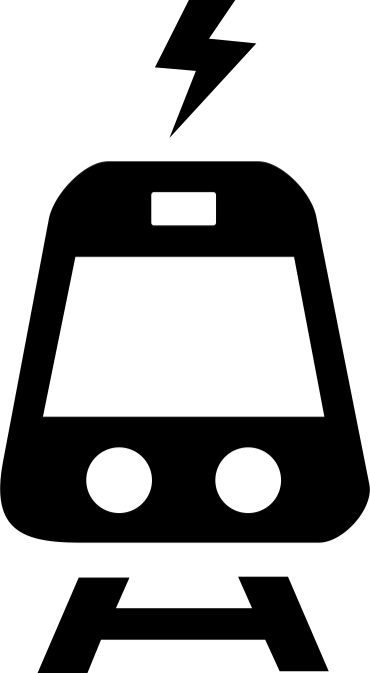
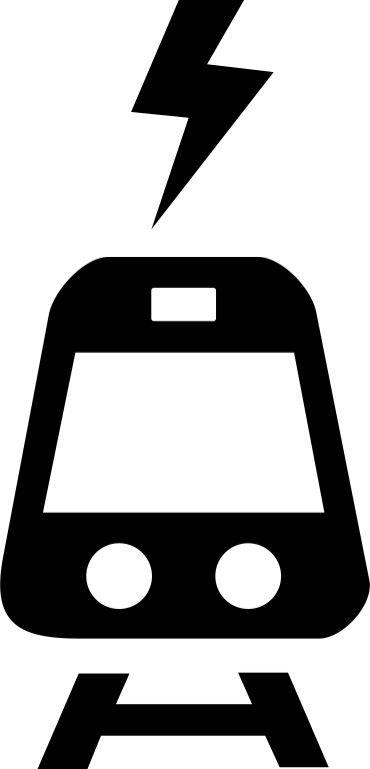
* separate vans from cars * small tweaks

diff --git a/app/main.py b/app/main.py
@@ -57,8 +57,8 @@ y = np.arange(0, 1000, 1)
 X, Y = np.meshgrid(x, y)
 Z = X*Y
 
-intensities = {'car electric':0.15,'car hydrogen':0.36,'bus electric':0.14,'rail electric':0.08,'rail hydrogen':0.192,'air synthetic':0.9,'air hydrogen':1.4,'bicycle':0.0,'walk':0.0,'HGV electric':0.361,'HGV hydrogen':0.889,'rail freight electric':0.09}
-demands = {'car electric':673,'car hydrogen':0,'bus electric':29,'rail electric':81,'rail hydrogen':0,'walk':12,'bicycle':6,'air synthetic':0,'HGV electric':161,'HGV hydrogen':0,'rail freight electric':17}
+intensities = {'car electric':0.15,'car hydrogen':0.36,'van electric':0.267,'bus electric':0.14,'rail electric':0.08,'rail hydrogen':0.192,'air synthetic':0.9,'air hydrogen':1.4,'bicycle':0.0,'walk':0.0,'HGV electric':0.361,'HGV hydrogen':0.889,'rail freight electric':0.09}
+demands = {'car electric':539,'car hydrogen':0,'van electric':134,'bus electric':29,'rail electric':81,'rail hydrogen':0,'walk':12,'bicycle':6,'air synthetic':0,'HGV electric':161,'HGV hydrogen':0,'rail freight electric':17}
 # N = 400
 # x = np.linspace(-1, 1, N)
 # y = np.linspace(-1, 1, N)
@@ -110,6 +110,10 @@ hgvH2_dict = {'intensity':[intensities['HGV hydrogen']],'demand':[demands['HGV h
 hgvH2_source = ColumnDataSource(data=hgvH2_dict)
 hgvH2_source.data['url']=['app/static/delivery-van-hydrogen.png']
 
+van_dict = {'intensity':[intensities['van electric']],'demand':[demands['van electric']]}
+van_source = ColumnDataSource(data=van_dict)
+van_source.data['url']=['app/static/van_electric.png']
+
 # contour plot
 contour_source = get_contour_data(X,Y,Z,levels)
 plot = figure(plot_width=729,plot_height=450,x_range=[-0.04,1], y_range=[-20,700],
@@ -125,18 +129,19 @@ plot.text(x='xt',y='yt',text='text',source=contour_source,text_baseline='middle'
 #plot.circle(intensities['walk'], demands['walk'], line_color="yellow", size=12)
 #plot.circle(intensities['bicycle'], demands['bicycle'], line_color="yellow", size=12)
 #plot.circle(intensities['air synthetic'], demands['air synthetic'], line_color="yellow", size=12)
-plot.image_url(url='url',x='intensity',y='demand',h=30,w=0.07,anchor='center',source=car_source)
-plot.image_url(url='url',x='intensity',y='demand',h=30,w=0.07,anchor='center',source=carH2_source)
+plot.image_url(url='url',x='intensity',y='demand',h=40,w=0.07,anchor='center',source=car_source)
+plot.image_url(url='url',x='intensity',y='demand',h=40,w=0.07,anchor='center',source=carH2_source)
 
 plot.image_url(url='url',x='intensity',y='demand',h=40,w=0.07,anchor='center',source=bike_source)
 plot.image_url(url='url',x='intensity',y='demand',h=40,w=0.07,anchor='center',source=walk_source)
 plot.image_url(url='url',x='intensity',y='demand',h=50,w=0.07,anchor='center',source=plane_source)
-plot.image_url(url='url',x='intensity',y='demand',h=70,w=0.05,anchor='center',source=train_source)
+plot.image_url(url='url',x='intensity',y='demand',h=80,w=0.05,anchor='center',source=train_source)
 plot.image_url(url='url',x='intensity',y='demand',h=70,w=0.05,anchor='center',source=trainH2_source)
 plot.image_url(url='url',x='intensity',y='demand',h=60,w=0.05,anchor='center',source=hgvE_source)
 plot.image_url(url='url',x='intensity',y='demand',h=60,w=0.05,anchor='center',source=hgvH2_source)
 plot.image_url(url='url',x='intensity',y='demand',h=50,w=0.06,anchor='center',source=train_freight_source)
 plot.image_url(url='url',x='intensity',y='demand',h=60,w=0.05,anchor='center',source=bus_source)
+plot.image_url(url='url',x='intensity',y='demand',h=60,w=0.05,anchor='center',source=van_source)
 
 # bar chart
 #fruits = ['Apples', 'Pears', 'Nectarines', 'Plums', 'Grapes', 'Strawberries']
@@ -211,6 +216,7 @@ walk_demand = Slider(title="walk", value=demands['walk'], start=0.0, end=1000.0,
 bike_demand = Slider(title="bicycle", value=demands['bicycle'], start=0.0, end=1000.0, step=1,width=200)
 ecar_demand = Slider(title="car (electric)", value=demands['car electric'], start=0.0, end=1000.0, step=1,width=200)
 h2car_demand = Slider(title="car (hydrogen)", value=demands['car hydrogen'], start=0.0, end=1000.0, step=1,width=200)
+evan_demand = Slider(title="van (electric)", value=demands['van electric'], start=0.0, end=1000.0, step=1,width=200)
 syn_air_demand = Slider(title="air (synthetic fuel)", value=demands['air synthetic'], start=0.0, end=1000.0, step=1,width=200)
 etrain_demand = Slider(title="rail (electric)", value=demands['rail electric'], start=0.0, end=1000.0, step=1,width=200)
 h2train_demand = Slider(title="rail (hydrogen)", value=demands['rail hydrogen'], start=0.0, end=1000.0, step=1,width=200)
@@ -238,7 +244,7 @@ car_weight = Slider(title="average car weight [kg]", value=1400, start=700, end=
 reg_break = Slider(title="regenerative breaking [% expl.]", value=0, start=0, end=100, step=5,width=200)
 drag_fric = Slider(title="reduced drag & friction [% expl.]", value=0, start=0, end=100, step=5,width=200)
 
-inputs = row(column(div1,walk_demand,bike_demand,ecar_demand,h2car_demand),
+inputs = row(column(div1,walk_demand,bike_demand,ecar_demand,h2car_demand,evan_demand),
               column(div1_1,bus_demand,etrain_demand,h2train_demand,syn_air_demand),
               column(div2,etrain_freight_demand,eHGV_demand,h2HGV_demand),
               column(div3,car_util,train_util,bus_util,HGV_util,train_freight_util),
@@ -265,7 +271,12 @@ def update_data():
     bus_source.data['demand'] = [bus_demand.value]
     bus_source.data['intensity'] = [intensities['bus electric'] * 0.5 / (bus_util.value/100)*RB_factor*DF_factor]
 
-    
+    van_d = evan_demand.value
+    van_source.data['demand'] = [van_d]
+    van_source.data['intensity'] = [intensities['van electric'] *RB_factor*DF_factor]
+     
+
+
     synair_d = syn_air_demand.value
     plane_source.data['demand'] = [synair_d]
     
@@ -307,6 +318,7 @@ def update_data():
     heights[0] += train_freight_source.data['demand'][0]*train_freight_source.data['intensity'][0]
     heights[0] += trainH2_source.data['demand'][0]*trainH2_source.data['intensity'][0]
     heights[0] += bus_source.data['demand'][0]*bus_source.data['intensity'][0]
+    heights[0] += van_source.data['demand'][0]*van_source.data['intensity'][0]
 
 
     bar_source.data['heights'] = heights
@@ -339,7 +351,7 @@ def update_data():
 
     #source.data = dict(x=x, y=y)
 
-for w in [ecar_demand,h2car_demand,bus_demand,bus_util,syn_air_demand,etrain_demand,walk_demand,bike_demand,h2train_demand,car_util,train_util,h2HGV_demand,eHGV_demand,HGV_util,etrain_freight_demand,train_freight_util,car_weight,reg_break,drag_fric]:
+for w in [ecar_demand,h2car_demand,evan_demand,bus_demand,bus_util,syn_air_demand,etrain_demand,walk_demand,bike_demand,h2train_demand,car_util,train_util,h2HGV_demand,eHGV_demand,HGV_util,etrain_freight_demand,train_freight_util,car_weight,reg_break,drag_fric]:
     w.on_change('value', lambda attr, old, new: update_data())
 
 update_data()
